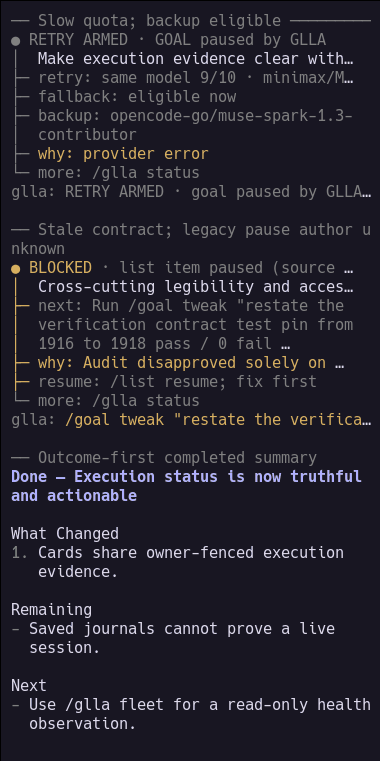
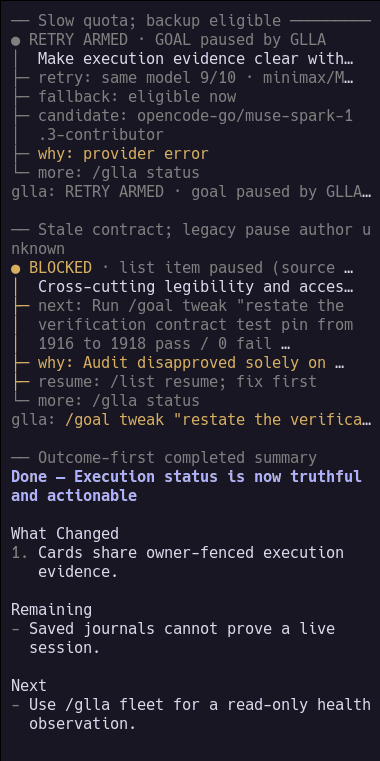
5 file(s) in audit,docs [audit/recovery-ui-captures/40.ansi, audit/recovery-ui-captures/120.ansi, docs/RUNTIME-INVENTORY.md] DELTA:+4/-4 | EXT:ansi,md BIN:2

diff --git a/docs/RUNTIME-INVENTORY.md b/docs/RUNTIME-INVENTORY.md
@@ -3,7 +3,7 @@
 Generated by `node scripts/generate-inventory.mjs`. Run with `--check` to detect drift. Counts describe files and literal registrations, not executed coverage.
 
 - Extension/script files: 116
-- Extension/script lines: 69015
+- Extension/script lines: 69020
 - Top-level test files: 396
 - Ambient bridge names: 179 (audit baseline: 179)
 - Commands: `/glla`, `/goal`, `/list`, `/loop`, `/review`
